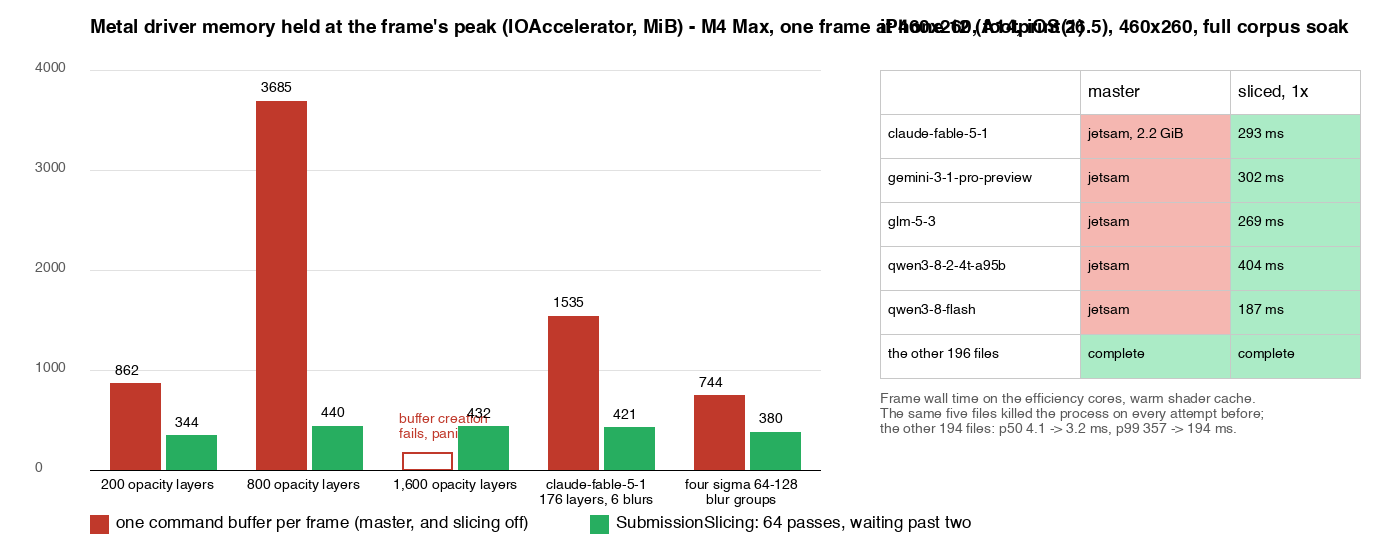
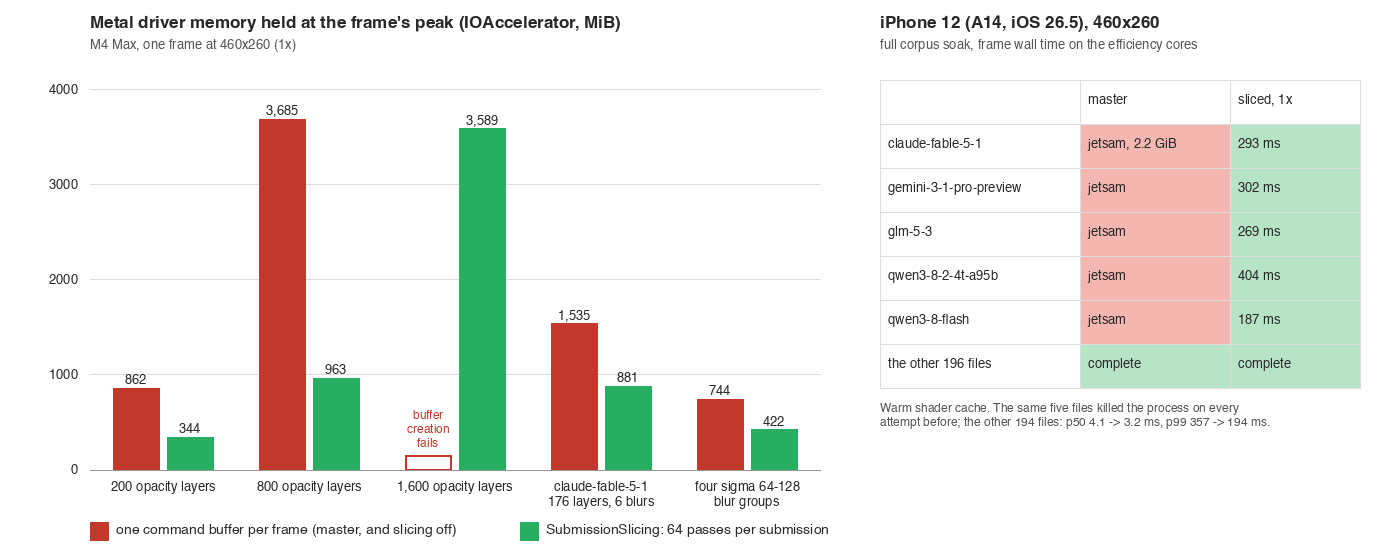
slicing evidence: the renderer never waits; chart and report without the waited series

diff --git a/harness/submission-slices-2026-09-28.md b/harness/submission-slices-2026-09-28.md
@@ -9,26 +9,27 @@ until it completes, whatever the target size. A standalone wgpu program with
 800 empty passes on one encoder holds 1,841 MiB; the same 800 passes as
 encoders inside one `MTLCommandBuffer` in pure Metal hold 25 MiB
 (gfx-rs/wgpu#10494). `WGPURenderer::set_submission_slicing` submits the frame
-in slices of 64 passes; `wait_past: Some(2)` additionally waits once more than
-two slices are unfinished, at the cost of polling the device inside the flush.
+in slices of 64 passes; the renderer never polls the device, so what the
+driver recycles are the slices that complete while the rest of the frame is
+still being encoded.
 
 ## Peak driver memory, one frame at 460x260, M4 Max (`footprint(1)`)
 
-| frame | one submission | slices of 64 | slices of 64, waiting past two |
-|---|---|---|---|
-| 200 opacity layers | 862 MiB | 344 MiB | 344 MiB |
-| 800 opacity layers | 3,685 MiB | 963 MiB | 413 MiB |
-| 1,600 opacity layers | buffer creation fails (`Buffer with '' label is invalid`) | 3,589 MiB | 415 MiB |
-| claude-fable-5-1 (176 layers, 6 blurs) | 1,535 MiB | 881 MiB | 407 MiB |
-| four sigma 64..128 blur groups (`corpus/probes/bigblur.svg`, a 372-pass chain) | 744 MiB | 422 MiB | 338 MiB |
+| frame | one submission | slices of 64 |
+|---|---|---|
+| 200 opacity layers | 862 MiB | 344 MiB |
+| 800 opacity layers | 3,685 MiB | 963 MiB |
+| 1,600 opacity layers | buffer creation fails (`Buffer with '' label is invalid`) | 3,589 MiB |
+| claude-fable-5-1 (176 layers, 6 blurs) | 1,535 MiB | 881 MiB |
+| four sigma 64..128 blur groups (`corpus/probes/bigblur.svg`, a 372-pass chain) | 744 MiB | 422 MiB |
 
 The same 800-layer frame at 1920x1080 holds the same 3,685 MiB: per pass, not per pixel.
 
 ## Pixels and time
 
 - 576 corpus frames at 1x/2x/4x: bit-identical against upstream master and against the same build with slicing off (`harness/ab.py`).
-- Soak, 201 files x 3 zooms x 3 passes, M4 Max: wall p50 0.9 / p95 35.2 / p99 66.0 / max 134 ms with slicing off, 1.0 / 29.1 / 47.6 / 74 ms with slices alone, 1.0 / 30.6 / 46.8 / 72 ms waiting past two; RSS high-water 733 -> 423 -> 164 MiB.
-- `tests/submission_slices_wgpu.rs`: 63/64/65-pass frames slice as `[63]`, `[64]`, `[64, 1]`; a mixed scene renders identically in slices of 1, 3, 7, 8 and 13 passes; the prepass order with and without slicing; a child process measures the 176-layer portrait's footprint: 937 MiB waiting past two slices, 1,109 MiB with slices alone, 1,567 MiB in one submission.
+- Soak, 201 files x 3 zooms x 3 passes, M4 Max: wall p50 0.9 / p95 35.2 / p99 66.0 / max 134 ms with slicing off, 1.0 / 29.1 / 47.6 / 74 ms with slices alone; RSS high-water 733 -> 423 MiB.
+- `tests/submission_slices_wgpu.rs`: 63/64/65-pass frames slice as `[63]`, `[64]`, `[64, 1]`; a mixed scene renders identically in slices of 1, 3, 7, 8 and 13 passes; the prepass order with and without slicing; a child process measures the 176-layer portrait's footprint: 1,109 MiB with slices alone, 1,567 MiB in one submission.
 
 ## iPhone 12 (A14, iOS 26.5), 460x260, efficiency cores
 
